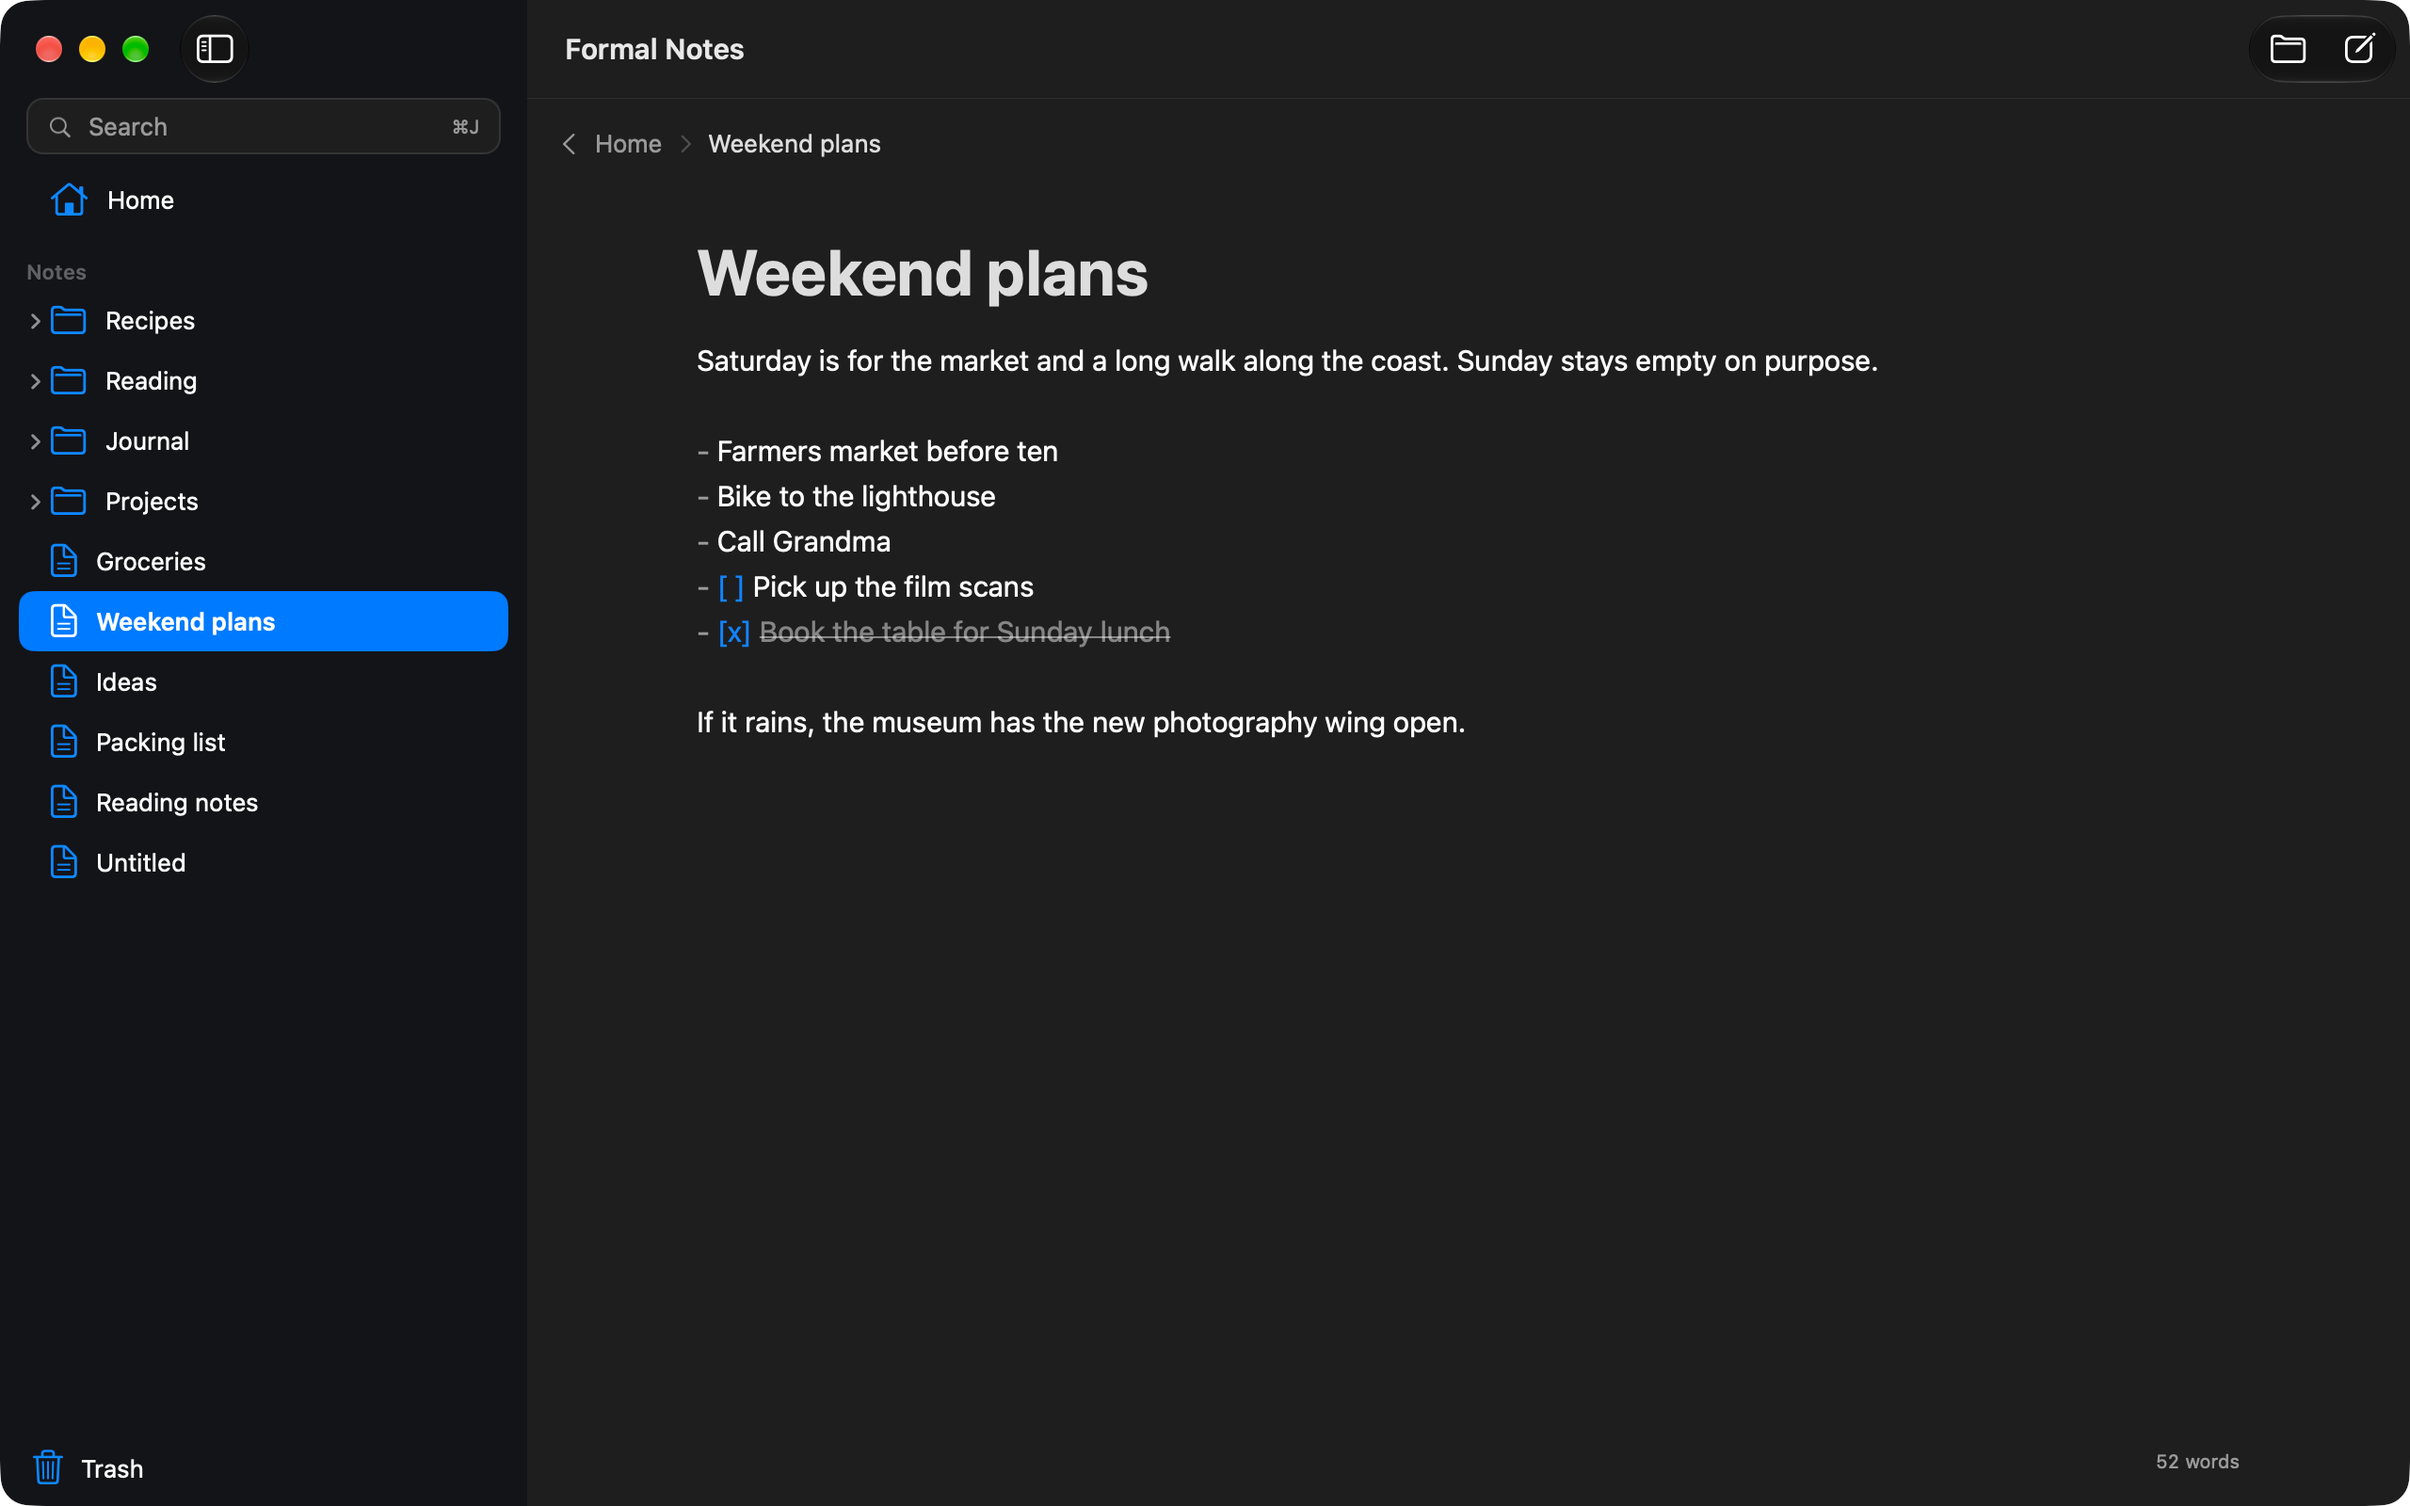
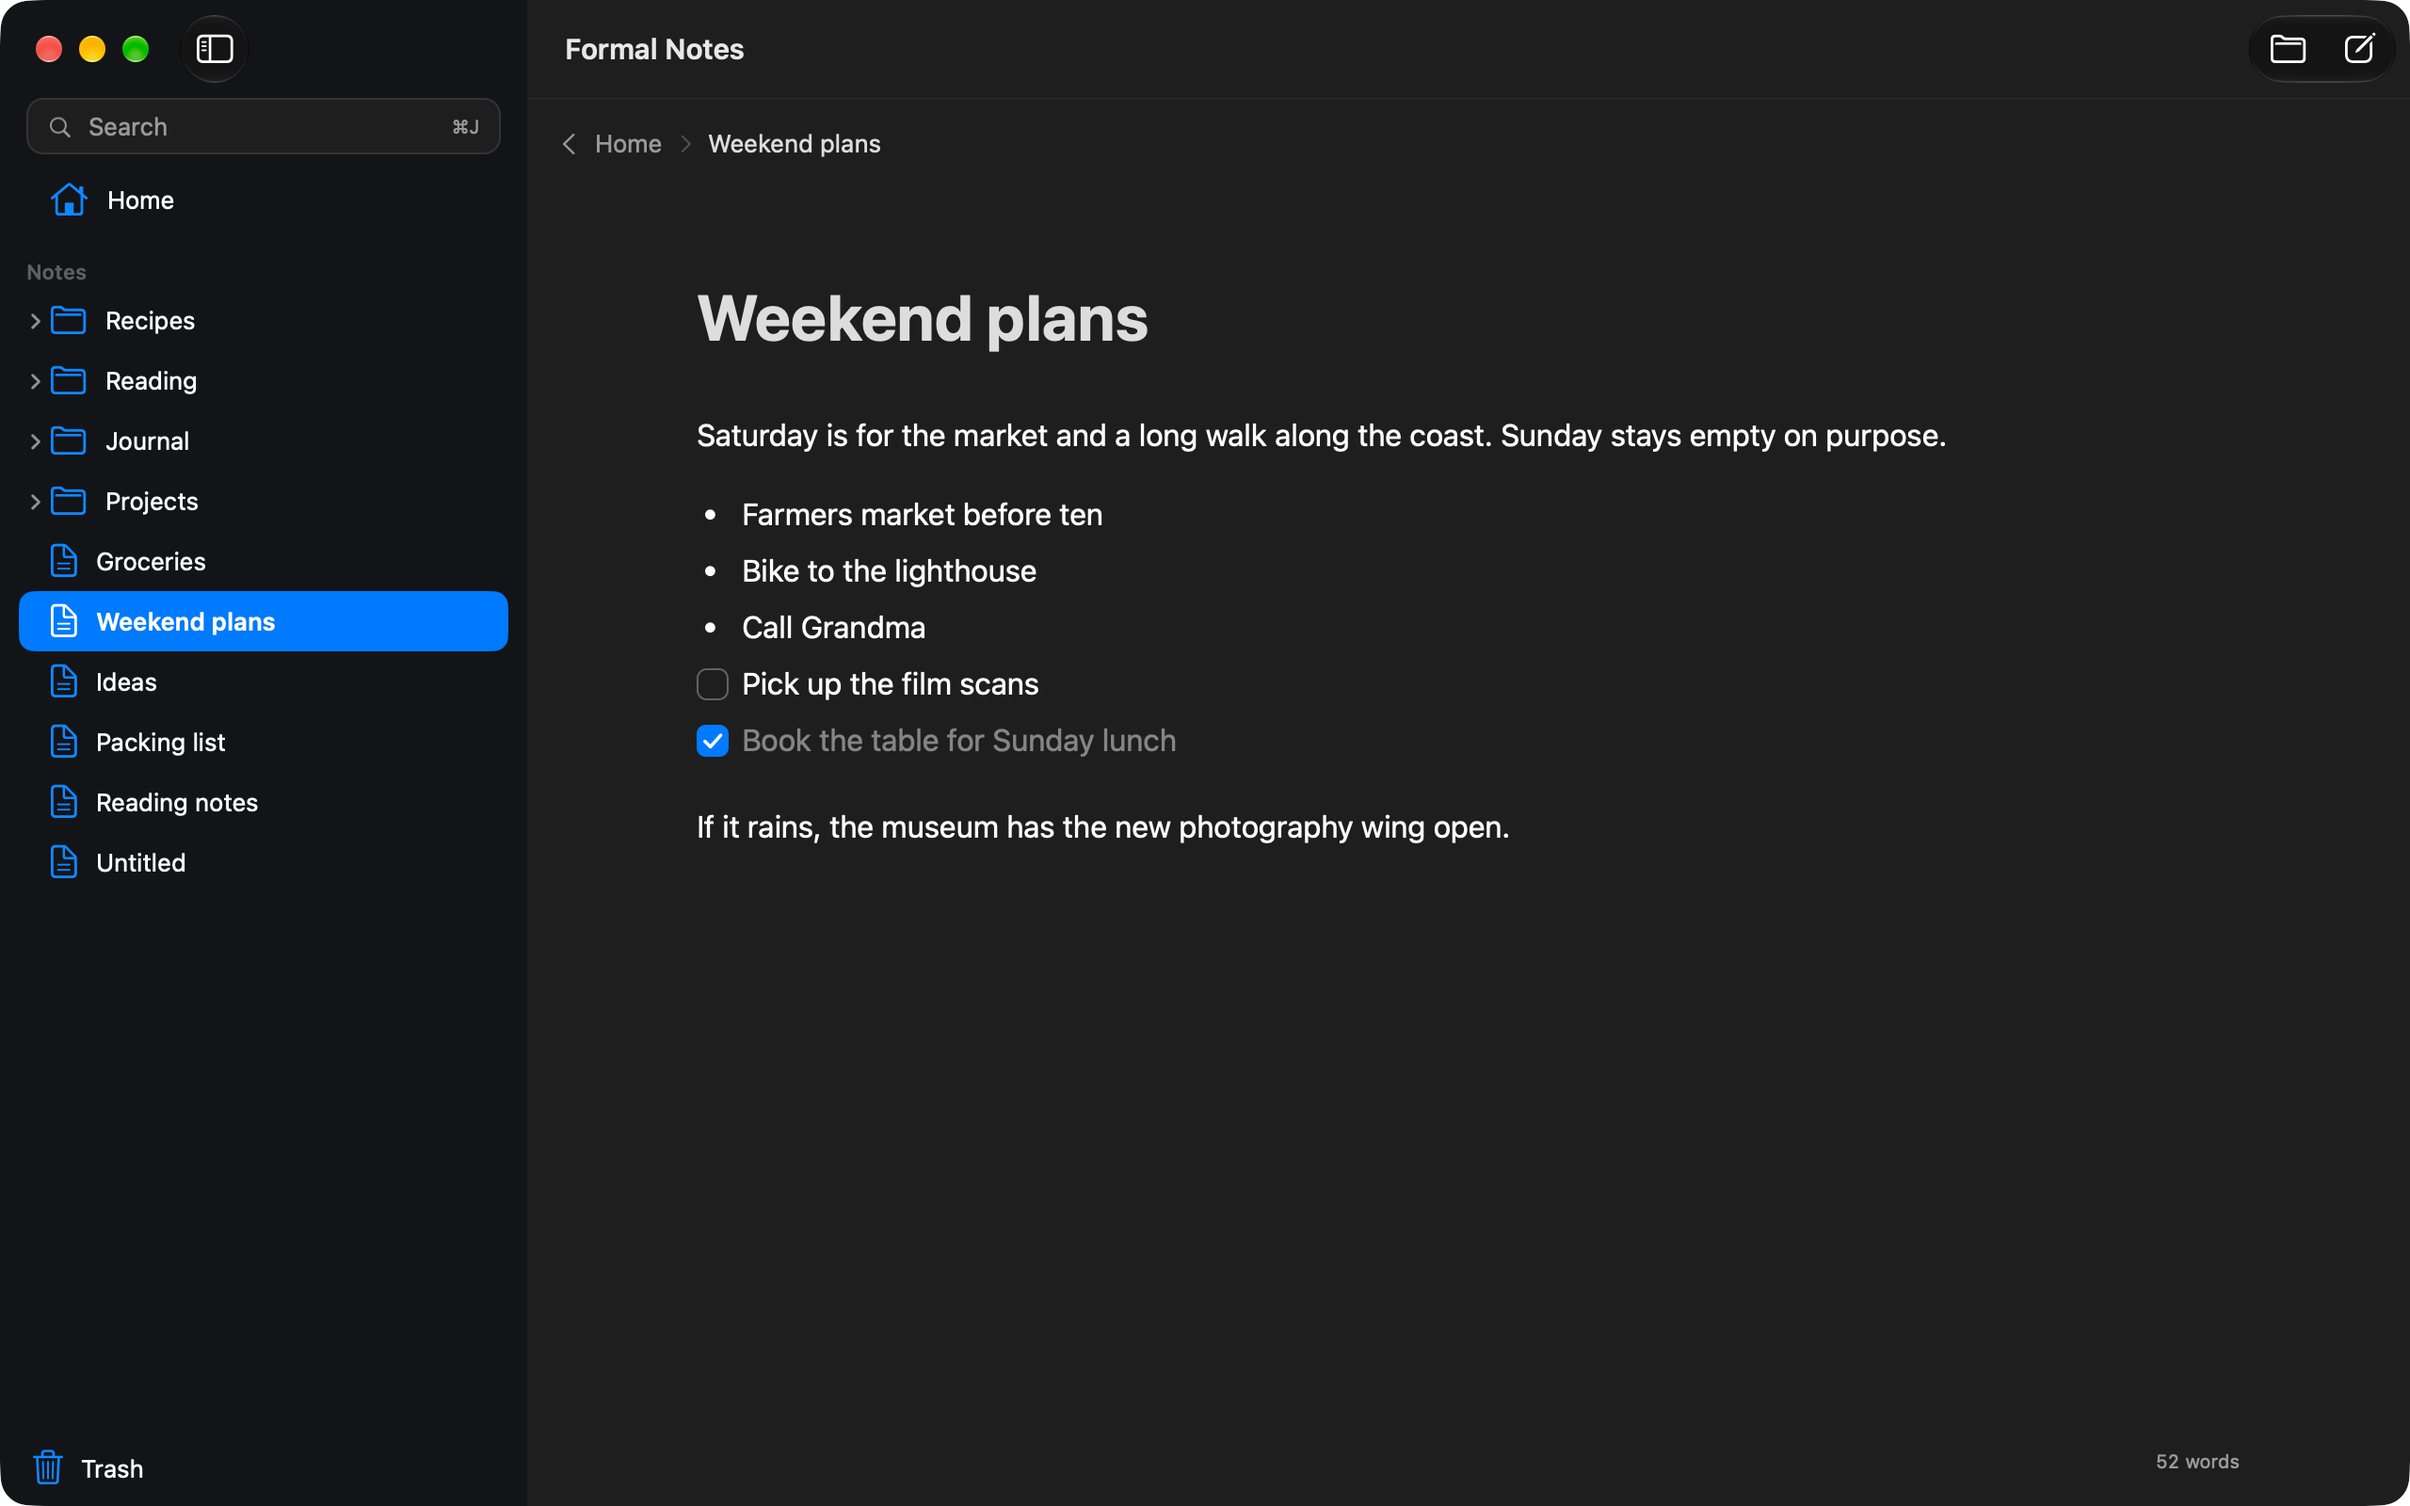
feat: quiet.md spacing in the editor and room for the page beside the sidebar

Changed region(s): [[0.2812, 0.2812, 0.8125, 0.5], [0.2812, 0.1562, 0.7812, 0.25], [0.2812, 0.5312, 0.625, 0.5625]]

diff --git a/tests/navigation.rs b/tests/navigation.rs
@@ -6,6 +6,7 @@ use formalnotes::actions::{GoBack, NewNote, OpenEntry, OpenPalette};
 use formalnotes::library::{FolderId, NoteId};
 use formalnotes::nav::Location;
 use formalnotes::views::FormalNotes;
+use nd::components::TextAreaProps;
 use nd::core::{NodeId, Point, WindowId};
 use nd::prelude::*;
 use nd::test::{Size, TestApp, by_test_id, text};
@@ -116,6 +117,19 @@ fn new_note_opens_in_the_current_folder() {
     assert_eq!(open.folder(), FolderId("Recipes".into()));
     rig.settle();
     assert!(rig.view().store().read(&rig.cx).note(&open).is_some());
+}
+
+#[nd::test]
+fn a_new_note_writes_on_the_page_not_in_a_field() {
+    let mut rig = open();
+    rig.act(&NewNote);
+    let id = rig.id();
+    let body = by_test_id(&mut rig.cx, id, "body").expect("the note's body").id;
+    let props = rig.cx.backend().props(body).and_then(|p| p.downcast_ref::<TextAreaProps>()).cloned();
+    let props = props.expect("the body is a text area");
+    // A bezelled area boxed the body in a bordered rectangle the width of the column.
+    assert!(props.borderless, "the body has no field chrome");
+    assert!(props.styles.is_some(), "the body styles its Markdown");
 }
 
 #[nd::test]

diff --git a/src/views/metrics.rs b/src/views/metrics.rs
@@ -7,6 +7,8 @@ pub const WINDOW_MIN: f32 = 480.;
 pub const SIDEBAR_WIDTH: f32 = 280.;
 pub const SIDEBAR_MIN: f32 = 240.;
 pub const SIDEBAR_MAX: f32 = 800.;
+/// The page keeps this much room beside the sidebar; the window stops narrowing there.
+pub const CONTENT_MIN: f32 = 420.;
 
 /// Page padding around the card grid.
 pub const PAGE_PAD_X: f32 = 24.;
@@ -41,11 +43,13 @@ pub const PAPER_RADIUS: f32 = 10.;
 /// Where the frosted front starts, as a share of the card's height.
 pub const FOLDER_FRONT_TOP: f32 = 0.5;
 
-/// Editor: the title, its line, and the least margin beside the text column.
+/// Editor: the title, its line, and the least margin beside the text column; the room above
+/// the title and between it and the body.
 pub const TITLE_SIZE: f32 = 34.;
 pub const TITLE_LINE: f32 = 55.;
 pub const EDITOR_MARGIN: f32 = 66.;
-pub const EDITOR_TOP: f32 = 24.;
+pub const EDITOR_TOP: f32 = 48.;
+pub const TITLE_GAP: f32 = 22.;
 
 /// Sidebar search pill.
 pub const PILL_HEIGHT: f32 = 30.;

diff --git a/src/demo.rs b/src/demo.rs
@@ -57,7 +57,7 @@ const NOTES: &[(&str, u64, &str)] = &[
     (
         "Projects/Launch/Release post.md",
         60 * 3,
-        "# Release post\n\nToday the first public version is out. It keeps your notes as plain Markdown files in a folder you choose, so they outlive the app.\n\n## What is in it\n\n- Folders and notes, side by side\n- Instant search\n- A quiet editor",
+        "# Release post\n\nToday the first public version is out. It keeps your notes as **plain Markdown files** in a folder you choose, so they outlive the app.\n\n## What is in it\n\n- Folders and notes, side by side\n- Instant search\n- A *quiet* editor\n\n---\n\nInstall it with Homebrew:\n\n```\nbrew install --cask formalnotes\n```\n\n> Every note is a `.md` file you can open anywhere.\n\nThe full list of changes is in [the changelog](CHANGELOG.md).",
     ),
     (
         "Projects/Launch/Press kit.md",

diff --git a/src/views/editor.rs b/src/views/editor.rs
@@ -264,7 +264,7 @@ impl Render for Editor {
                     .w_full()
                     .flex_1()
                     .min_h_0()
-                    .mt(theme.spacing.sm),
+                    .mt(px(TITLE_GAP)),
             )
             .child(in_column(words))
     }

diff --git a/src/views/root.rs b/src/views/root.rs
@@ -596,6 +596,7 @@ impl Render for FormalNotes {
                     .child(sidebar),
             )
             .content(content)
+            .content_min_width(super::metrics::CONTENT_MIN)
             .overlay(palette);
         self.actions(scaffold, cx)
     }
